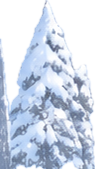
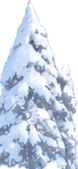
雪国线 window: only whole pines (the half-hidden one and the bare pole left out, a stray trunk sliver trimmed), a soft blue shadow where each stands instead of a hard bank.
Claude-Session: https://claude.ai/code/session_01ScX6WKwjvGxQ2unMJchHBc

diff --git a/carview.js b/carview.js
@@ -68,7 +68,7 @@
   const [low, l] = mk(), [glow, gl] = mk();
   let A = null, ready = false;
   Promise.all(["far", "ground", "pine0", "pine1", "pine2", "pine3", "trunk0"].map(n => img(`assets/view/${n}.png`)))
-    .then(([far, ground, ...sp]) => { A = { far, ground, pines: [sp[0], sp[2], sp[3]].filter(Boolean), trunk: sp[4] }; ready = !!far; });   // pine1 (mostly a bare pole) left out
+    .then(([far, ground, ...sp]) => { A = { far, ground, pines: [sp[2], sp[3]].filter(Boolean), trunk: sp[4] }; ready = !!far; });   // only the whole pines (the others are half hidden behind a trunk)
   let seed = 5; const rnd = () => (seed = (seed * 9301 + 49297) % 233280) / 233280;
   const LOOP = 1600, pines = [], trunks = [];
   for (let x = 0; x < LOOP;) { pines.push({ x, i: Math.floor(rnd() * 4), k: .8 + rnd() * .35, f: rnd() < .5, d: rnd() }); x += 34 + rnd() * 120; }
@@ -105,8 +105,8 @@
       const k = p.k * (.9 + p.d * .2), b = base + 4 + p.d * 6, w = im.width * S * k;
       sprite(im, x, b, k, p.f);
       // where it stands: a soft bank of snow over the cut, and a faint blue shadow
-      l.fillStyle = "rgba(150,165,195,.25)"; l.beginPath(); l.ellipse(x + w * .5, b + 1, w * .55, 2.2, 0, 0, 7); l.fill();
-      l.fillStyle = "rgba(246,249,253,.95)"; l.beginPath(); l.ellipse(x + w * .5, b - .5, w * .42, 2.4, 0, 0, 7); l.fill(); }
+      const sh = l.createRadialGradient(x + w * .5, b, 0, x + w * .5, b, w * .5); sh.addColorStop(0, "rgba(150,165,195,.28)"); sh.addColorStop(1, "rgba(150,165,195,0)");
+      l.save(); l.translate(0, b); l.scale(1, .12); l.translate(0, -b); l.fillStyle = sh; l.fillRect(x - w * .1, b - w * .5, w * 1.2, w); l.restore(); }
     // the near trunks: fast, big, out of focus
     if (A.trunk) { const tx = (run * 300) % LOOP; l.filter = `blur(${(1.2 + vel * 1.4).toFixed(2)}px)`;
       for (const t of trunks) { let x = t.x - tx; if (x < -60) x += LOOP; if (x > LW + 10) continue; sprite(A.trunk, x, LH + 10, t.k, t.f); }

diff --git a/focus.html b/focus.html
@@ -768,6 +768,6 @@
 })();
 </script>
 <!-- the carriage: the reference window with the footage playing through its glass -->
-<script src="carview.js?v=5"></script>
+<script src="carview.js?v=6"></script>
 </body>
 </html>
